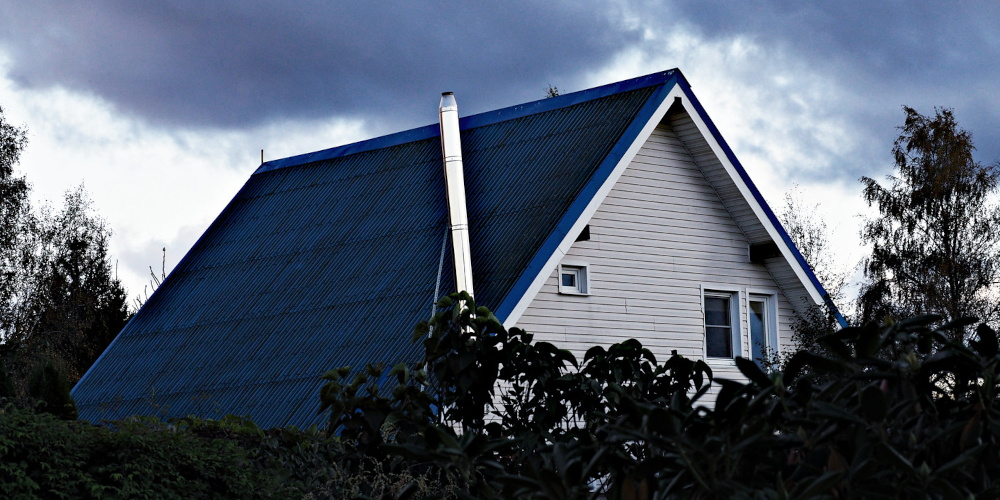
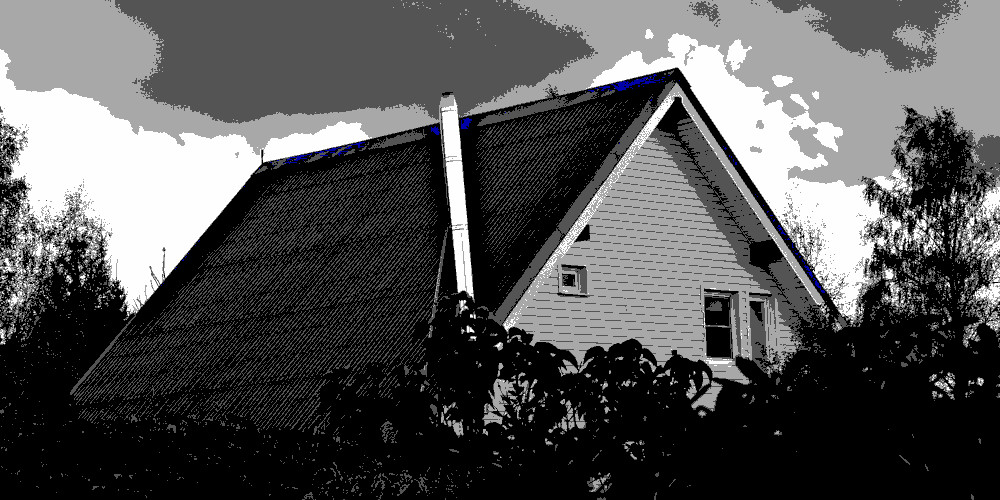
Convert post headers' images with CGA color pallete

diff --git a/changelog.html b/changelog.html
@@ -14,6 +14,14 @@ hidden:
       <th>Changes</th>
     </tr>
     <tr>
+      <td><tt>2025-04-19</tt></td>
+      <td>
+        Convert headers' images
+        to <a href="https://www.deviantart.com/theouterlinux/art/GIMP-color-palettes-from-retro-systems-anime-etc-760564991">CGA
+        color pallete</a> with GIMP.
+      </td>
+    </tr>
+    <tr>
       <td><tt>2025-04-08</tt></td>
       <td>
         Update CSS. Now it is fully

diff --git a/_posts/ru/2022-03-14-northern-lights.html b/_posts/ru/2022-03-14-northern-lights.html
@@ -7,9 +7,9 @@ lang: ru
 comments: true
 hidden:
   - related_posts
-image: /assets/static/aurora10.jpg
+image: /assets/static/aurora-header.jpg
 banner:
-  image: /assets/static/aurora10.jpg
+  image: /assets/static/aurora-header.jpg
   opacity: 0.6
 ---
 
